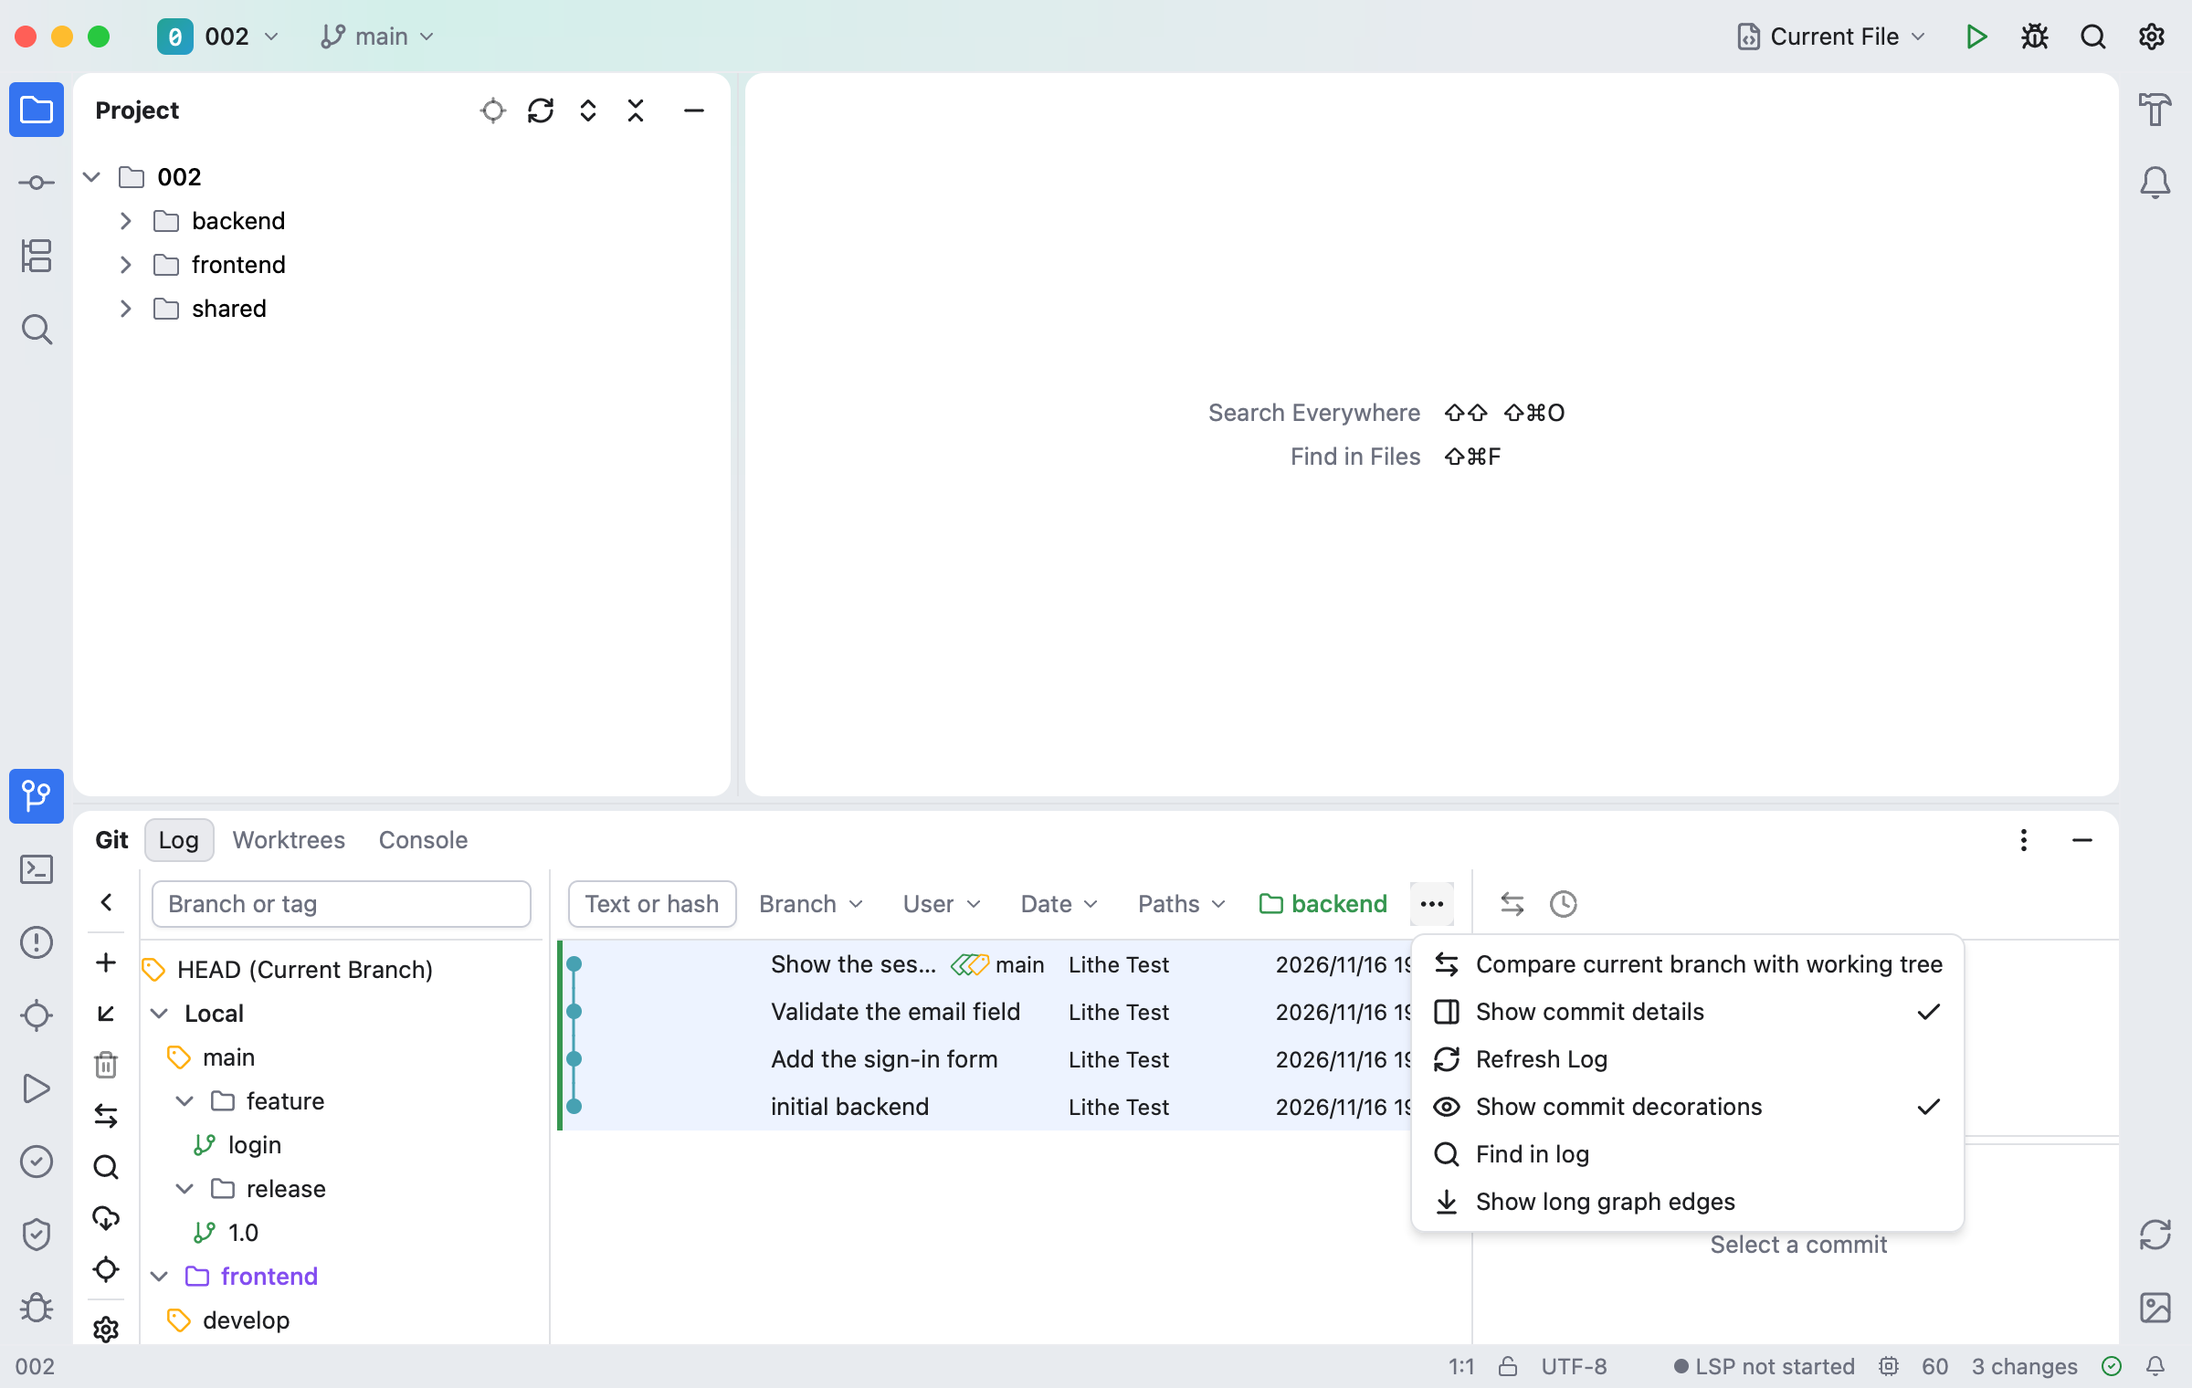
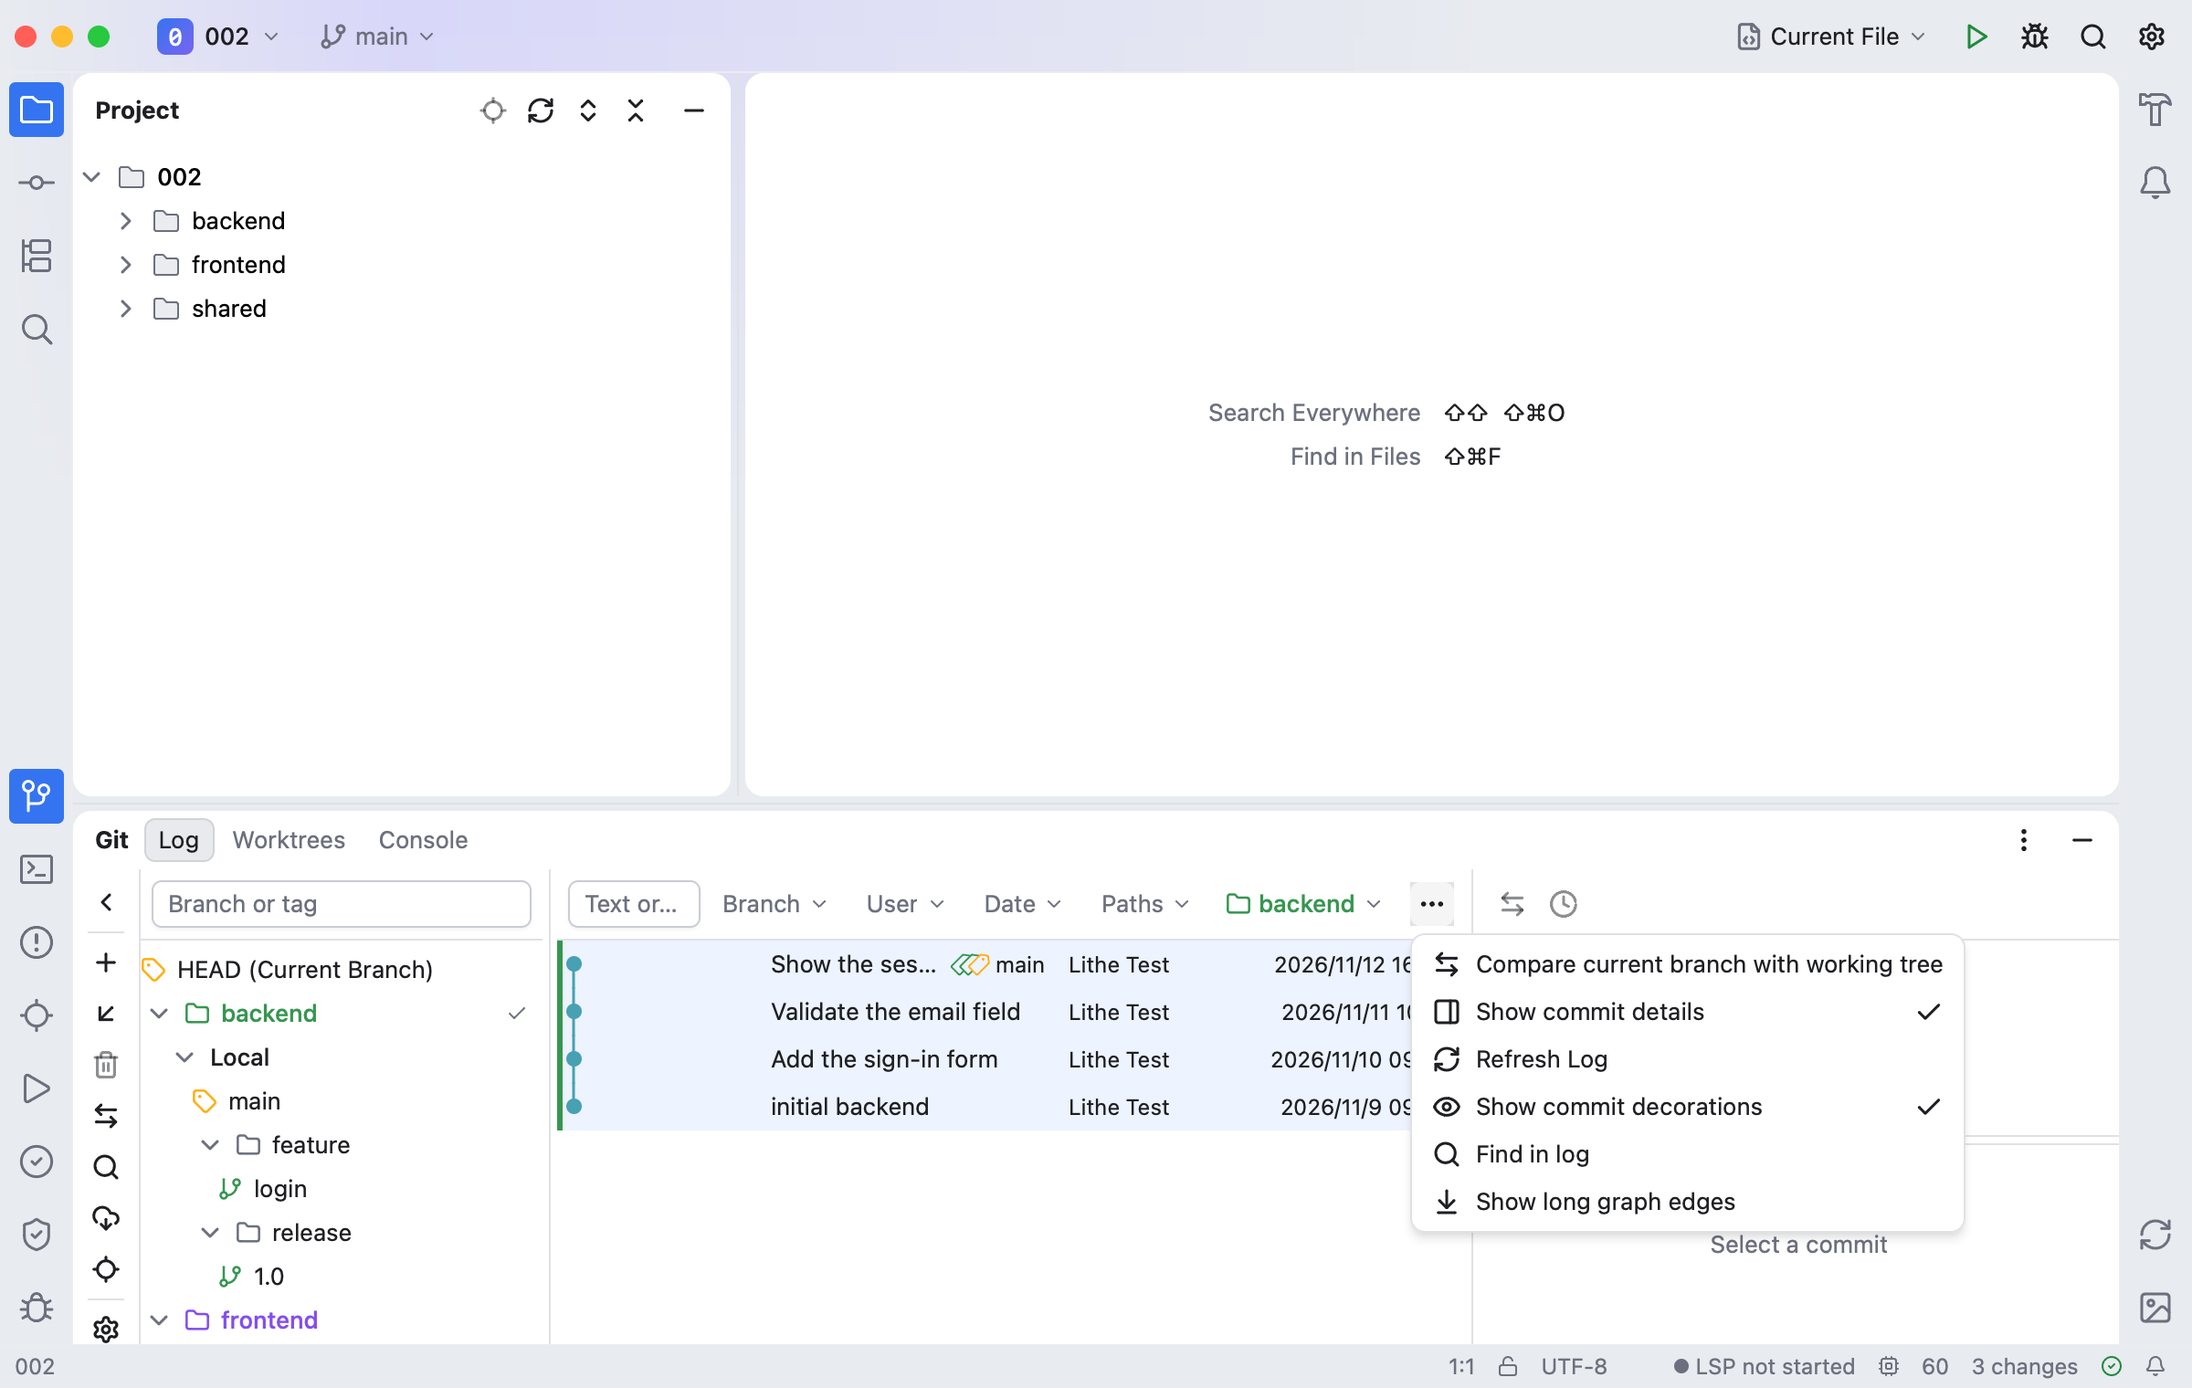
feat(desktop): 混排日志不超过 Core 的 2 万条上限，固定 Core #71，补截图
- 混排日志按剩余额度取页：各仓库已加载的提交合计到 2 万条（git.workspaceHistoryMerge 和
  git.graphProjection 的上限）后，仍有下一页的仓库关闭游标并按已读完处理，列表在这里正常结束，
  和单仓库日志读满 5000 条后结束一样；之前勾选 5 个以上历史很长的仓库时，滚到底会停在
  “加载失败 / 重试”，重试也不会成功。新增 TestMergedLogReadsNoMoreThanCoreMerges。
- PINNED_CORE_REVISION 暂时固定到 Lithe-core-rust #71 分支的 0315efd（含 workspaceHistoryMerge 与
  selection 的 chosen），#71 合入后改为 Core main 的 commit。
- 截图测试固定提交日期，新增“点击仓库名弹出仓库列表”和“两个仓库按时间混排”两个场景；
  重新生成 docs/assets/workspace-repositories 的全部截图并更新 README。

Refs #2013

diff --git a/desktop/internal/workbench/workspace_repositories_visual_test.go b/desktop/internal/workbench/workspace_repositories_visual_test.go
@@ -16,8 +16,9 @@ import (
 
 // TestVisualWorkspaceRepositories captures the views of a folder that is no repository itself and
 // holds three: the branch popup listing them with one's panel open beside its row, the Git log
-// with the color strip of the repository it walks, the Paths filter's Roots, and the Commit
-// window's groups.
+// with the color strip of the repository it walks and each repository's own sections in the
+// reference pane, the Paths filter's Roots, the repository list behind the name after the filter
+// chips, the log of two repositories merged by date, and the Commit window's groups.
 func TestVisualWorkspaceRepositories(t *testing.T) {
 	out := os.Getenv("LITHE_VISUAL_OUTPUT_DIR")
 	if out == "" {
@@ -27,17 +28,30 @@ func TestVisualWorkspaceRepositories(t *testing.T) {
 		t.Fatal(err)
 	}
 	for _, look := range []struct{ theme, language string }{{"dark", "zh-Hans"}, {"light", "en"}} {
-		for _, scene := range []string{"branch-popup", "git-log", "log-roots", "log-more", "commit-groups"} {
+		for _, scene := range []string{"branch-popup", "git-log", "log-roots", "log-choose", "log-merged", "log-more", "commit-groups"} {
 			t.Run(scene+"-"+look.theme, func(t *testing.T) {
+				// Fixed dates, so the merged log interleaves the two repositories the same way
+				// on every run.
+				at := func(date string) {
+					t.Setenv("GIT_AUTHOR_DATE", date)
+					t.Setenv("GIT_COMMITTER_DATE", date)
+				}
+				at("2026-11-09T09:00:00")
 				parent := newWorkspaceFolder(t, "backend", "frontend", "shared")
 				frontend, backend := filepath.Join(parent, "frontend"), filepath.Join(parent, "backend")
-				for _, message := range []string{"Add the sign-in form", "Validate the email field", "Show the session banner"} {
-					gitRun(t, backend, "commit", "--allow-empty", "-m", message)
+				commit := func(dir, message, date string) {
+					at(date)
+					gitRun(t, dir, "commit", "--allow-empty", "-m", message)
 				}
+				commit(backend, "Add the sign-in form", "2026-11-10T09:30:00")
+				commit(backend, "Validate the email field", "2026-11-11T10:15:00")
+				commit(backend, "Show the session banner", "2026-11-12T16:40:00")
 				gitRun(t, backend, "branch", "feature/login")
 				gitRun(t, backend, "branch", "release/1.0")
 				gitRun(t, frontend, "branch", "feature/theme")
 				gitRun(t, frontend, "switch", "-c", "develop")
+				commit(frontend, "Lay out the dashboard", "2026-11-10T14:00:00")
+				commit(frontend, "Tune the dark palette", "2026-11-12T11:20:00")
 				prefs := store.At(t.TempDir())
 				if err := prefs.Save(settingsFile, settings{Theme: themeChoice(look.theme), Language: look.language, DisableAutoSave: true}); err != nil {
 					t.Fatal(err)
@@ -58,7 +72,7 @@ func TestVisualWorkspaceRepositories(t *testing.T) {
 					h.click(center(h.hitLabeled(h.app.text.Title.BranchMenu)))
 					label := i18n.SharedFormat(h.app.language(), "desktop.branch.repositoryPanel", map[string]string{"repository": "frontend", "branch": "develop"})
 					h.click(center(h.popupHit(label)))
-				case "git-log", "log-roots", "log-more":
+				case "git-log", "log-roots", "log-choose", "log-merged", "log-more":
 					h.app.layout.gitTab = gitTabLog
 					if !h.app.chrome.isOpen(catalogIndex[itemGit]) {
 						h.click(center(h.button(itemGit)))
@@ -69,6 +83,21 @@ func TestVisualWorkspaceRepositories(t *testing.T) {
 					switch scene {
 					case "log-roots":
 						h.click(center(h.hitLabeled(h.app.text.Git.FilterPaths)))
+					case "log-choose":
+						h.click(center(h.hitLabeled(h.app.text.Git.Repositories.Choose)))
+					case "log-merged":
+						choose := h.app.text.Git.Repositories.Choose
+						h.click(center(h.hitLabeled(choose)))
+						label := i18n.SharedFormat(h.app.language(), "desktop.nested.rootToggle", map[string]string{"name": "frontend"})
+						h.click(center(h.hitLabeled(label)))
+						h.settleUntil("backend's and frontend's histories in one list", func() bool {
+							return p.walksSeveral() && !p.log.loading && len(p.log.graph.Rows) == 7
+						})
+						h.click(center(h.hitLabeled(choose)))
+						if p.log.popover != logPopoverNone {
+							t.Fatalf("popover %v after clicking the repository name again", p.log.popover)
+						}
+						h.relayLogBar()
 					case "log-more":
 						h.click(center(h.hitLabeled(i18n.Shared(h.app.language(), "git.log.toolbar.moreActions"))))
 					}

diff --git a/desktop/internal/workbench/gitlog_multi.go b/desktop/internal/workbench/gitlog_multi.go
@@ -10,7 +10,8 @@ import (
 
 // This file is the Git log that walks several repositories of the project folder at once (matrix
 // id git-multi-repository-references), as IntelliJ IDEA's log shows the roots of a project with
-// several. The roots list of the Paths filter chooses them (git_log_repo.go). Each repository's
+// several. The roots list, under the Paths filter and behind the repository name after the filter
+// chips, chooses them (gitlog_popover_view.go, git_log_repo.go). Each repository's
 // history is read a page at a time; Core interleaves what is loaded by date, each repository in its
 // own order (git.workspaceHistoryMerge), and lays the merged list out as one graph whose keys keep
 // the repositories apart. Each row is marked in its repository's color, and what a row does, its
@@ -26,6 +27,46 @@ type historyMerger interface {
 // errNoHistoryMerge is the failure of a log of several repositories with a kernel that cannot
 // merge their histories.
 var errNoHistoryMerge = errors.New("the kernel cannot merge repository histories")
+
+// mergedLogLimit is how many commits a log of several repositories reads in all: Core's
+// git.workspaceHistoryMerge and git.graphProjection take at most 20,000 (rust-core-api.md). Once
+// the walks hold that many, each ends where it is, so the merged list ends there the way one
+// repository's log ends after the 5,000 commits git.historyPage returns.
+const mergedLogLimit = 20000
+
+// historyPager is the part of the kernel that reads a walk's pages.
+type historyPager interface {
+	GitHistoryPage(ctx context.Context, root, reference, cursor string, limit int) (core.GitHistoryPage, error)
+	CloseGitHistoryCursor(ctx context.Context, root, cursor string) (bool, error)
+}
+
+// readWalkPage reads the next page of w, at most room commits of it. With no room left, w ends
+// where it is: its cursor is closed, and the merged list places everything it holds.
+func readWalkPage(ctx context.Context, pager historyPager, w *logWalk, room int) error {
+	if room <= 0 {
+		if w.cursor != "" {
+			_, _ = pager.CloseGitHistoryCursor(ctx, w.root, w.cursor)
+		}
+		w.cursor, w.complete = "", true
+		return nil
+	}
+	page, err := pager.GitHistoryPage(ctx, w.root, "", w.cursor, min(logPageSize, room))
+	if err != nil {
+		return err
+	}
+	w.commits = slices.Concat(w.commits, page.Commits)
+	w.cursor, w.complete = page.NextCursor, !page.HasMore
+	return nil
+}
+
+// walkCommits is how many commits walks hold in all.
+func walkCommits(walks []logWalk) int {
+	n := 0
+	for _, w := range walks {
+		n += len(w.commits)
+	}
+	return n
+}
 
 // logWalk is the history of one repository the log walks with others, as far as it is loaded.
 type logWalk struct {
@@ -129,11 +170,9 @@ func (a *App) loadLogRepos(p *project, gen int) {
 				break
 			}
 			w := &walks[i]
-			var page core.GitHistoryPage
-			if page, err = kernel.GitHistoryPage(ctx, w.root, "", "", logPageSize); err != nil {
+			if err = readWalkPage(ctx, kernel, w, mergedLogLimit-walkCommits(walks)); err != nil {
 				break
 			}
-			w.commits, w.cursor, w.complete = page.Commits, page.NextCursor, !page.HasMore
 			if i == 0 {
 				w.remotes = remoteNames(sections)
 			} else if theirs, rerr := kernel.GitReferences(ctx, w.root); rerr == nil {
@@ -195,12 +234,9 @@ func (a *App) loadMoreLogRepos(p *project) {
 			if w.complete || w.cursor == "" {
 				continue
 			}
-			var page core.GitHistoryPage
-			if page, err = kernel.GitHistoryPage(ctx, w.root, "", w.cursor, logPageSize); err != nil {
+			if err = readWalkPage(ctx, kernel, w, mergedLogLimit-walkCommits(walks)); err != nil {
 				break
 			}
-			w.commits = slices.Concat(w.commits, page.Commits)
-			w.cursor, w.complete = page.NextCursor, !page.HasMore
 		}
 		var commits []core.GitCommit
 		var origins []logOrigin

diff --git a/desktop/internal/workbench/gitlog_multi_test.go b/desktop/internal/workbench/gitlog_multi_test.go
@@ -1,6 +1,7 @@
 package workbench
 
 import (
+	"context"
 	"path/filepath"
 	"slices"
 	"testing"
@@ -104,5 +105,62 @@ func TestWorkspaceLogWalksSeveralRepositoriesTogether(t *testing.T) {
 	})
 	if !h.shows("initial beta") || h.shows("initial alpha") {
 		t.Fatal("after unchecking alpha the log does not show beta's history alone")
+	}
+}
+
+// endlessPager reads pages of a history that never ends and records the limits it is asked for
+// and the cursors it closes.
+type endlessPager struct {
+	limits []int
+	closed []string
+}
+
+func (f *endlessPager) GitHistoryPage(_ context.Context, _, _, _ string, limit int) (core.GitHistoryPage, error) {
+	f.limits = append(f.limits, limit)
+	return core.GitHistoryPage{Commits: make([]core.GitCommit, limit), NextCursor: "next", HasMore: true}, nil
+}
+
+func (f *endlessPager) CloseGitHistoryCursor(_ context.Context, _, cursor string) (bool, error) {
+	f.closed = append(f.closed, cursor)
+	return true, nil
+}
+
+// A log of several repositories reads no more commits than Core merges at once: the last page
+// takes the room that is left, and a walk with none left ends where it is, its cursor closed, so
+// the merged list ends instead of failing the next merge.
+func TestMergedLogReadsNoMoreThanCoreMerges(t *testing.T) {
+	ctx, pager := context.Background(), &endlessPager{}
+	walks := []logWalk{
+		{id: "a", root: "/a", commits: make([]core.GitCommit, mergedLogLimit-30), cursor: "a1"},
+		{id: "b", root: "/b", cursor: "b1"},
+		{id: "c", root: "/c"},
+	}
+	read := func(i int) {
+		t.Helper()
+		if err := readWalkPage(ctx, pager, &walks[i], mergedLogLimit-walkCommits(walks)); err != nil {
+			t.Fatalf("walk %q: %v", walks[i].id, err)
+		}
+	}
+	read(1)
+	if len(walks[1].commits) != 30 || walks[1].complete || walks[1].cursor != "next" {
+		t.Fatalf("the last page is %d commits, complete %v, cursor %q; want the 30 left and more to come",
+			len(walks[1].commits), walks[1].complete, walks[1].cursor)
+	}
+	read(0)
+	read(1)
+	read(2)
+	if !slices.Equal(pager.limits, []int{30}) {
+		t.Fatalf("pages asked for %v, want one of the 30 left", pager.limits)
+	}
+	if !slices.Equal(pager.closed, []string{"a1", "next"}) {
+		t.Fatalf("closed cursors %v, want a's and b's and none for c, which read no page", pager.closed)
+	}
+	for _, w := range walks {
+		if !w.complete || w.cursor != "" {
+			t.Fatalf("walk %q is complete %v with cursor %q after the room ran out", w.id, w.complete, w.cursor)
+		}
+	}
+	if n := walkCommits(walks); n != mergedLogLimit {
+		t.Fatalf("the walks hold %d commits, want %d", n, mergedLogLimit)
 	}
 }

diff --git a/docs/assets/workspace-repositories/README.md b/docs/assets/workspace-repositories/README.md
@@ -1,14 +1,16 @@
 # 多仓库项目文件夹测试截图
 
 来自生产 Viva Page 的无头渲染。项目文件夹本身不是 Git 仓库，里面有三个独立仓库 backend、frontend、shared，
-由测试在临时目录中创建；颜色由 Core 按仓库分配。深色使用中文、浅色使用英文。截图不代表 macOS/Windows
-原生窗口验收。
+由测试在临时目录中创建；颜色由 Core 按仓库分配。提交日期固定，混排顺序每次相同。深色使用中文、浅色使用英文。
+截图不代表 macOS/Windows 原生窗口验收。
 
 | 场景 | 深色中文 | 浅色英文 |
 | --- | --- | --- |
 | 标题栏分支入口：先列出“提交…”，再按 IDEA 的样式逐行列出仓库，每行有颜色方块、仓库名、右侧的当前分支和 ›；点击 frontend 后，面板在这一行旁边展开，列出该仓库的分支操作和“frontend 中的最近分支 / 本地分支 / 远程分支 / 标签”，在面板里新建、检出等操作只作用于 frontend | [截图](workspace-branch-popup-dark.png) | [截图](workspace-branch-popup-light.png) |
-| Git 日志：文件夹本身不是仓库，Core 选第一个嵌套仓库 backend；提交行最左侧是 backend 的颜色条，筛选栏在“路径”之后用仓库颜色写明正在查看的仓库，左侧引用面板里其他仓库按各自颜色分组 | [截图](workspace-git-log-dark.png) | [截图](workspace-git-log-light.png) |
-| 路径筛选器下方的“仓库根目录”：按颜色列出三个仓库并勾选正在查看的一个，点击即切换日志查看的仓库 | [截图](workspace-log-roots-dark.png) | [截图](workspace-log-roots-light.png) |
+| Git 日志：文件夹本身不是仓库，Core 选第一个嵌套仓库 backend；提交行最左侧是 backend 的颜色条；筛选栏“路径”之后是仓库名，用仓库颜色显示，带下拉箭头，点击可选择仓库；左侧引用面板每个仓库一个节点，节点下各有自己的“本地 / 远程 / 标签” | [截图](workspace-git-log-dark.png) | [截图](workspace-git-log-light.png) |
+| 路径筛选器下方的“仓库根目录”：按颜色列出三个仓库并勾选正在查看的一个；勾选或取消勾选即改变日志查看的仓库 | [截图](workspace-log-roots-dark.png) | [截图](workspace-log-roots-light.png) |
+| 点击筛选栏里的仓库名：弹出同一份仓库列表，可多选 | [截图](workspace-log-choose-dark.png) | [截图](workspace-log-choose-light.png) |
+| 勾选 backend 和 frontend：Core 把两个仓库的历史按提交时间混排成一个列表，各仓库内部保持 Git 顺序；每行左侧是所属仓库的颜色条，两个仓库的图互不相连；筛选栏的仓库名变成两个颜色方块和“2 个仓库” | [截图](workspace-log-merged-dark.png) | [截图](workspace-log-merged-light.png) |
 | Git 日志筛选栏放不下全部视图按钮时：筛选项和仓库名完整保留，放不下的按钮收进末尾的“更多操作”（…）菜单，每项带图标，“显示提交详情”等开关项开启时打勾；全部收进菜单后文本筛选框再缩窄，最后才裁掉筛选项 | [截图](workspace-log-more-dark.png) | [截图](workspace-log-more-light.png) |
 | 提交窗口：按仓库分组，每组有暂存复选框、颜色、文件数和“提交此仓库”；顶部复选框按 Core 的计划暂存全部仓库；状态栏统计所有仓库的更改数 | [截图](workspace-commit-groups-dark.png) | [截图](workspace-commit-groups-light.png) |
 
